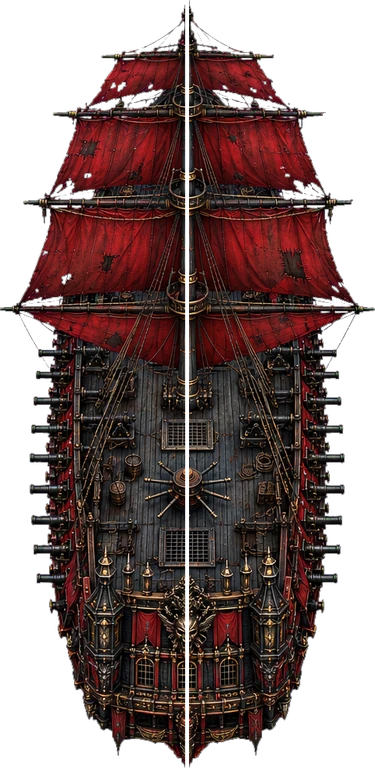
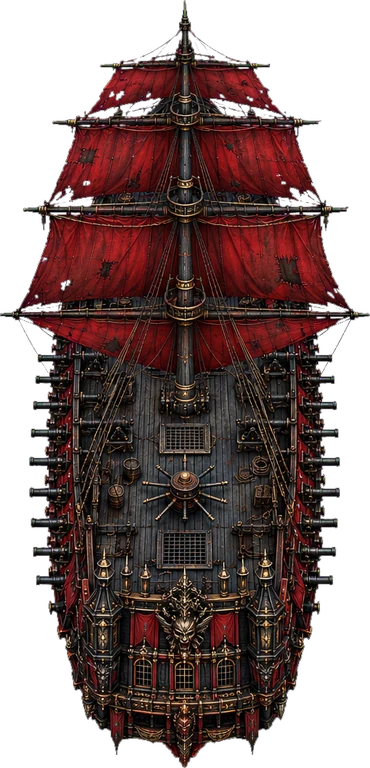
Art: the carrack, the silk junk and the pearl schooner from overhead; hull sheets keep their masts (sheet option whole: a mast running stem to stern was taken for a ruled hairline and cut out — the black corsair, the crimson tide, the iron ram, the phantom brig and the razee re-cut whole)

diff --git a/tools/art/ships.py b/tools/art/ships.py
@@ -156,7 +156,7 @@ def main() -> None:
         ids = [f"ship.{x['id']}" for x in g]
         p = sprite_prompt(g)
         old = sheets.get(key, {})
-        sheets[key] = {'grid': [len(g), 1], 'mode': 'keyed', 'px': 768, 'square': False, 'dir': 'ships', 'aspect': '3:2', 'ids': ids, 'prompt': p}
+        sheets[key] = {'grid': [len(g), 1], 'mode': 'keyed', 'whole': True, 'px': 768, 'square': False, 'dir': 'ships', 'aspect': '3:2', 'ids': ids, 'prompt': p}
         if old.get('cut'):
             sheets[key]['cut'] = old['cut']
         else:
